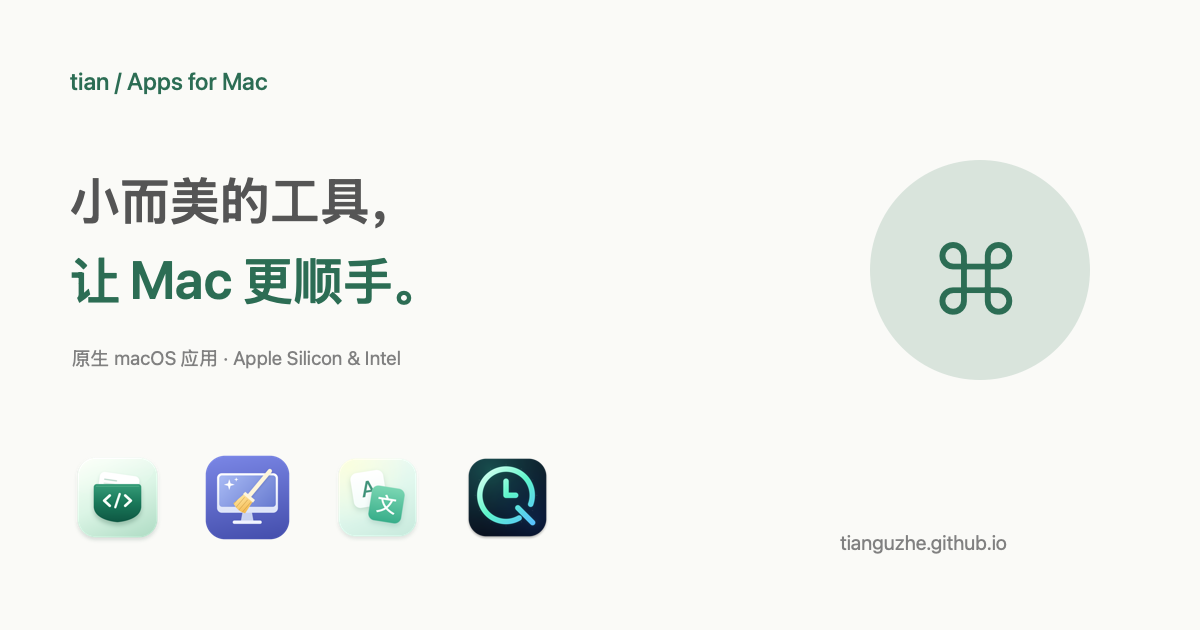
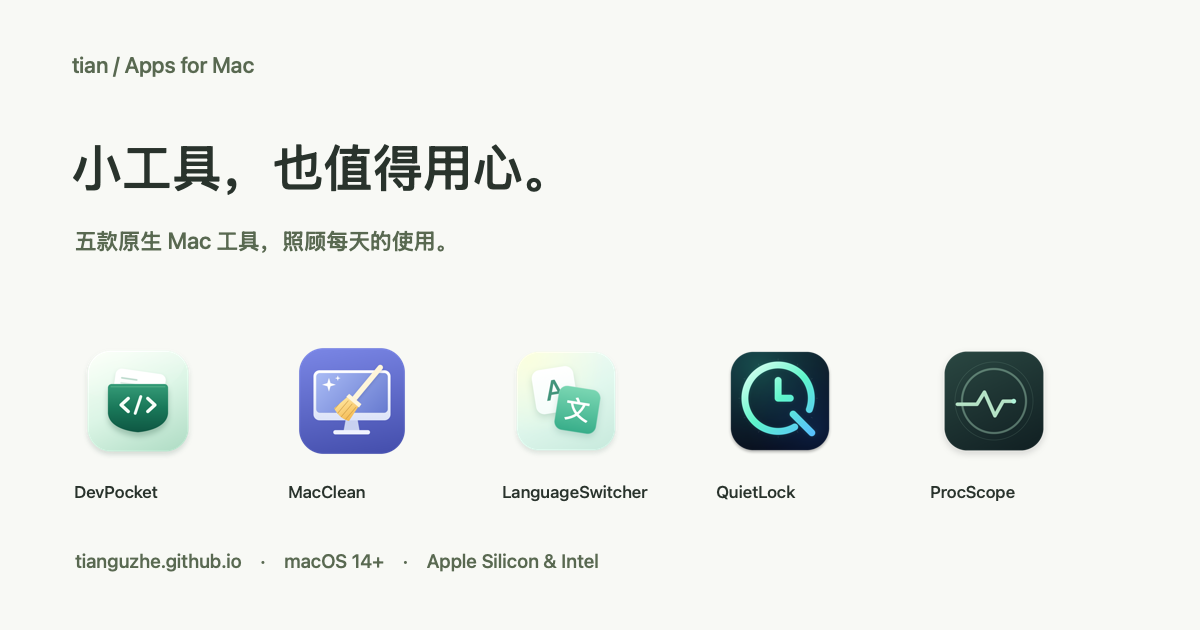
Add ProcScope product page, installer preview and download links

diff --git a/src/data/apps.ts b/src/data/apps.ts
@@ -127,6 +127,34 @@ export const apps: App[] = [
       { question: '如何确保息屏后需要密码？', answer: '在“系统设置 → 锁定屏幕”中，将屏幕保护程序启动或显示器关闭后要求输入密码设为“立即”。QuietLock 控制息屏时机，系统设置决定是否需要密码。' },
     ],
   },
+  {
+    slug: 'procscope', name: 'ProcScope', category: '进程与端口',
+    color: '#16766c', tint: '#edf4ef',
+    tagline: '看清每一个运行中的任务',
+    headline: ['谁在运行，', '一眼看清。'],
+    description: '从应用资源到监听端口，从启动命令到父子进程。把 Mac 正在做的事，看得更清楚，管理得更从容。',
+    icon: '/images/procscope-icon.png', screenshot: '/images/procscope-preview.png',
+    screenshotWidth: 2480, screenshotHeight: 1620,
+    screenshotAlt: 'ProcScope 应用视图，石墨绿侧栏、应用 CPU 与内存列表，以及 Terminal 的进程详情',
+    caption: '应用、进程、端口，三个视角观察这台 Mac。图中为示例数据。',
+    features: [
+      { icon: 'activity', title: '资源占用，看清归属', text: '汇总应用与关联进程的 CPU 和内存，按名称、PID 或路径搜索。区分前台、后台与暂停状态。' },
+      { icon: 'network', title: '从端口，找到进程', text: '搜索一个端口号，查看 TCP 监听与 UDP 绑定，继续追溯所属进程、启动命令和工作目录。' },
+      { icon: 'shield', title: '每一步，都有依据', text: '查看父子进程关系，确认后再退出、结束、暂停或恢复。操作前重新验证身份，保护系统与其他用户进程。' },
+    ],
+    steps: [
+      { title: '选一个观察视角', text: '用 ⌘1–⌘3 切换应用、全部进程与监听端口。' },
+      { title: '找到需要的任务', text: '按 ⌘F 搜索名称、PID 或端口号，查看详情与来源。' },
+      { title: '了解清楚，再操作', text: '切换到应用，或核对目标与操作提示后再执行管理。' },
+    ],
+    faqs: [
+      { question: '会上传进程或命令信息吗？', answer: '不会。系统采样、筛选和关联都在本机完成，不需要账号，也没有网络上传。基本功能无需辅助功能、屏幕录制或完全磁盘访问权限。' },
+      { question: '为什么 CPU 可能超过 100%，内存合计偏大？', answer: 'CPU 采用单个核心为 100% 的进程口径，多核合计可以超过 100%。内存为 RSS 驻留内存，共享页面可能被不同进程重复统计，不等于整机实际已用内存。' },
+      { question: '“等待中”是不是应用卡住了？', answer: '不是。等待事件或资源是正常进程状态，不表示无响应。ProcScope 会明确区分等待、后台与暂停，目前不检测应用窗口是否无响应。' },
+      { question: '能结束所有进程，或释放所有端口吗？', answer: '不能。操作只针对当前用户的所选 PID，不递归结束子进程；系统进程、其他用户进程和 ProcScope 自身为只读。受保护进程的详情或端口可能不可见。' },
+      { question: '暂停进程会释放内存和端口吗？', answer: '不会。暂停只停止调度，内存和端口仍被占用。强制结束可能丢失未保存内容；服务也可能被系统自动重启，执行前请核对确认面板。' },
+    ],
+  },
 ];
 
 export const repository = (app: App) => `https://github.com/tianguzhe/${app.name}`;

diff --git a/src/styles/global.css b/src/styles/global.css
@@ -256,7 +256,7 @@ kbd { display: inline-grid; place-items: center; width: 29px; height: 29px; bord
 .more-apps-heading { display: flex; align-items: center; justify-content: space-between; gap: 20px; margin-bottom: 20px; }
 .more-apps-heading h2 { font-size: 18px; font-weight: 500; }
 .more-apps-heading .text-link { font-size: 12px; color: var(--muted); }
-.more-apps-grid { display: grid; grid-template-columns: repeat(3, minmax(0, 1fr)); gap: 22px; }
+.more-apps-grid { display: grid; grid-template-columns: repeat(2, minmax(0, 1fr)); gap: 22px; }
 .more-apps-grid > a { display: flex; align-items: center; gap: 13px; padding: 21px 0; border-top: 1px solid var(--line); }
 .more-apps-grid img { width: 46px; height: 46px; }
 .more-apps-grid > a > span { display: flex; flex: 1; flex-direction: column; min-width: 0; gap: 7px; }
@@ -498,3 +498,27 @@ html:has(.image-dialog[open]) { overflow: hidden; }
   .tool-index > div { padding-inline: 10px; }
   .language-words > span:nth-child(3) { font-size: 29px; }
 }
+
+/* A fifth app gets a compact featured slot without widening the collection. */
+.shelf-app:last-child:nth-child(odd) { grid-column: 1 / -1; display: grid; grid-template-columns: 66px 1fr; grid-template-rows: 1fr 1fr; column-gap: 15px; text-align: left; padding: 12px 22px; border-radius: 14px; background: #ffffff66; }
+.shelf-app:last-child:nth-child(odd) .shelf-icon { grid-row: 1 / 3; width: 62px; height: 62px; margin: 0; }
+.shelf-app:last-child:nth-child(odd) strong { align-self: end; }
+.shelf-app:last-child:nth-child(odd) > span:last-child { align-self: start; }
+.app-card-procscope .card-preview, .product-procscope .product-visual { background: #e4eee6; }
+.process-trace { padding: 32px 36px; background: #142322; color: #e8f2eb; border-radius: 22px; box-shadow: 0 20px 50px #14232212; }
+.trace-top { display: flex; align-items: center; gap: 12px; color: #b3e0c4; font: 9px var(--mono); letter-spacing: 1px; }
+.trace-top i { margin-left: auto; width: 5px; height: 5px; border-radius: 50%; background: #b3e0c4; }
+.trace-port { display: block; font: 500 64px var(--mono); letter-spacing: -4px; margin: 25px 0 6px; }
+.trace-protocol { color: #a7beb4; font: 10px var(--mono); }
+.trace-step { display: grid; gap: 10px; padding-top: 21px; margin-top: 21px; border-top: 1px solid #ffffff15; }
+.trace-step > span { font: 9px var(--mono); color: #95b0a4; letter-spacing: 1px; }
+.trace-step strong { font-size: 18px; font-weight: 500; }
+.trace-step small { margin-left: 12px; color: #95b0a4; font: 10px var(--mono); }
+.trace-step code { font: 12px/1.7 var(--mono); overflow-wrap: anywhere; }
+.process-trace > p { display: flex; justify-content: space-between; margin: 24px 0 0; font-size: 11px; color: #b3e0c4; }
+.process-trace > p small { color: #95b0a4; }
+.process-extra { display: grid; grid-template-columns: 1.4fr 1fr; gap: 30px; align-items: center; margin-bottom: 80px; }
+.process-extra figure { margin: 0; min-width: 0; }
+.process-extra img { display: block; width: 100%; height: auto; border: 1px solid var(--line); border-radius: 12px; box-shadow: 0 12px 36px #1423220a; }
+.process-extra figcaption { text-align: center; font-size: 11px; color: var(--muted); margin-top: 18px; line-height: 1.7; }
+@media (max-width: 720px) { .process-extra { grid-template-columns: 1fr; } .process-trace { padding: 26px; } .shelf-app:last-child:nth-child(odd) { padding: 10px 18px; } }

diff --git a/scripts/generate-social.swift b/scripts/generate-social.swift
@@ -6,12 +6,13 @@ let products: [(String, String, String, String, UInt32)] = [
     ("devpocket", "DevPocket", "一个小工具，", "少一点打断。", 0x13785e),
     ("macclean", "MacClean", "开发缓存，", "看清再清理。", 0x5c63b5),
     ("languageswitcher", "LanguageSwitcher", "换一种语言，", "打开熟悉的应用。", 0x4365b7),
-    ("quietlock", "QuietLock", "什么时候息屏，", "你说了算。", 0x147a78)
+    ("quietlock", "QuietLock", "什么时候息屏，", "你说了算。", 0x147a78),
+    ("procscope", "ProcScope", "谁在运行，", "一眼看清。", 0x16766c)
 ]
 func color(_ hex: UInt32) -> NSColor {
     NSColor(srgbRed: Double((hex >> 16) & 255) / 255, green: Double((hex >> 8) & 255) / 255, blue: Double(hex & 255) / 255, alpha: 1)
 }
-for (slug, name, first, second, accent) in products {
+for (slug, name, first, second, accent) in products where CommandLine.arguments.count < 3 || CommandLine.arguments[2] == slug {
     let image = NSImage(size: NSSize(width: 1200, height: 630))
     image.lockFocus()
     color(0xf8f9f5).setFill()
@@ -43,4 +44,27 @@ for (slug, name, first, second, accent) in products {
     NSGraphicsContext.restoreGraphicsState()
     let target = URL(fileURLWithPath: directory + "/social-" + slug + ".png")
     try bitmap.representation(using: .png, properties: [:])!.write(to: target)
+}
+
+if CommandLine.arguments.count < 3 || CommandLine.arguments[2] == "studio" {
+    let bitmap = NSBitmapImageRep(bitmapDataPlanes: nil, pixelsWide: 1200, pixelsHigh: 630,
+        bitsPerSample: 8, samplesPerPixel: 4, hasAlpha: true, isPlanar: false,
+        colorSpaceName: .deviceRGB, bytesPerRow: 0, bitsPerPixel: 0)!
+    NSGraphicsContext.saveGraphicsState()
+    NSGraphicsContext.current = NSGraphicsContext(bitmapImageRep: bitmap)
+    color(0xf8f9f5).setFill(); NSRect(x: 0, y: 0, width: 1200, height: 630).fill()
+    func label(_ text: String, _ x: CGFloat, _ y: CGFloat, _ size: CGFloat, _ tint: UInt32) {
+        (text as NSString).draw(at: NSPoint(x: x, y: y), withAttributes: [.font: NSFont.systemFont(ofSize: size, weight: .medium), .foregroundColor: color(tint)])
+    }
+    label("tian / Apps for Mac", 72, 552, 22, 0x596951)
+    label("小工具，也值得用心。", 72, 433, 53, 0x29332c)
+    label("五款原生 Mac 工具，照顾每天的使用。", 75, 376, 23, 0x596951)
+    for (index, product) in products.enumerated() {
+        let x = CGFloat(78 + index * 214)
+        NSImage(contentsOfFile: directory + "/" + product.0 + "-icon.png")!.draw(in: NSRect(x: x, y: 169, width: 120, height: 120))
+        label(product.1, x - 4, 128, 17, 0x29332c)
+    }
+    label("tianguzhe.github.io    ·    macOS 14+    ·    Apple Silicon & Intel", 75, 57, 19, 0x596951)
+    NSGraphicsContext.restoreGraphicsState()
+    try bitmap.representation(using: .png, properties: [:])!.write(to: URL(fileURLWithPath: directory + "/social.png"))
 }

diff --git a/README.md b/README.md
@@ -1,6 +1,6 @@
 # tian · Apps for Mac
 
-四款原生 macOS 应用的个人展示站，使用 Astro 生成纯静态页面，部署至 [tianguzhe.github.io](https://tianguzhe.github.io)。
+五款原生 macOS 应用的个人展示站，使用 Astro 生成纯静态页面，部署至 [tianguzhe.github.io](https://tianguzhe.github.io)。
 
 ## 本地开发
 
@@ -21,12 +21,12 @@ bun run preview
 
 ## 更新内容
 
-- `src/data/apps.ts`：四个应用的介绍、功能、步骤、FAQ、图片路径与品牌色。
+- `src/data/apps.ts`：五个应用的介绍、功能、步骤、FAQ、图片路径与品牌色。
 - `src/pages/index.astro`：个人首页。
-- `src/pages/[app].astro`：共用产品页模板，自动生成四个独立路由。
+- `src/pages/[app].astro`：共用产品页模板，自动生成五个独立路由。
 - `src/styles/global.css`：响应式界面与动效设置。
 - `src/styles/motion.css`：入场、图标浮动和悬停动效。
-- `src/components/ProductStory.astro`：三个产品的专属叙事区块与功能图示。
+- `src/components/ProductStory.astro`：四个产品的专属叙事区块与功能图示。
 - `src/components/MacCleanDetails.astro` 与 `src/styles/macclean.css`：MacClean 工具详情展示。
 - `src/scripts/motion.ts`：滚动显现、动效偏好、移动导航与截图放大预览。
 - `scripts/optimize-images.mjs`：构建前自动生成 WebP 图标与多尺寸截图，原 PNG 用于查看原图。
@@ -46,8 +46,10 @@ GitHub 仓库名必须为 `tianguzhe.github.io`。仓库 Settings → Pages 的 
 
 ## 素材来源
 
-图标和已有截图来自 [DevPocket](https://github.com/tianguzhe/DevPocket)、[MacClean](https://github.com/tianguzhe/MacClean)、[LanguageSwitcher](https://github.com/tianguzhe/LanguageSwitcher) 和 [QuietLock](https://github.com/tianguzhe/QuietLock)。
+图标和已有截图来自 [DevPocket](https://github.com/tianguzhe/DevPocket)、[MacClean](https://github.com/tianguzhe/MacClean)、[LanguageSwitcher](https://github.com/tianguzhe/LanguageSwitcher)、[QuietLock](https://github.com/tianguzhe/QuietLock) 和 [ProcScope](https://github.com/tianguzhe/ProcScope)。
 
 DevPocket 展示图以原有 SwiftUI 界面渲染示例 JSON；LanguageSwitcher 展示图以原有界面展示 Safari 内置语言；MacClean 展示图以原有 SwiftUI 视图渲染示例占用。QuietLock 展示图保留原应用的深浅色界面，裁去开发标注后重新排版。没有用户输入或扫描到的私人文件。
 
 每个应用使用独立的 1200×630 分享卡片。在 macOS 上可通过 `swift scripts/generate-social.swift public/images` 重新生成产品分享图。更新应用介绍时同步该脚本的名称与标题。
+
+ProcScope 展示图使用实际 SwiftUI 视图与固定示例数据渲染，未读取本机进程。安装预览来自已验证的 DMG。通过 ProcScope 仓库的 `scripts/preview.sh` 更新界面素材；稳定下载地址为 `https://github.com/tianguzhe/ProcScope/releases/latest/download/ProcScope.dmg`。
